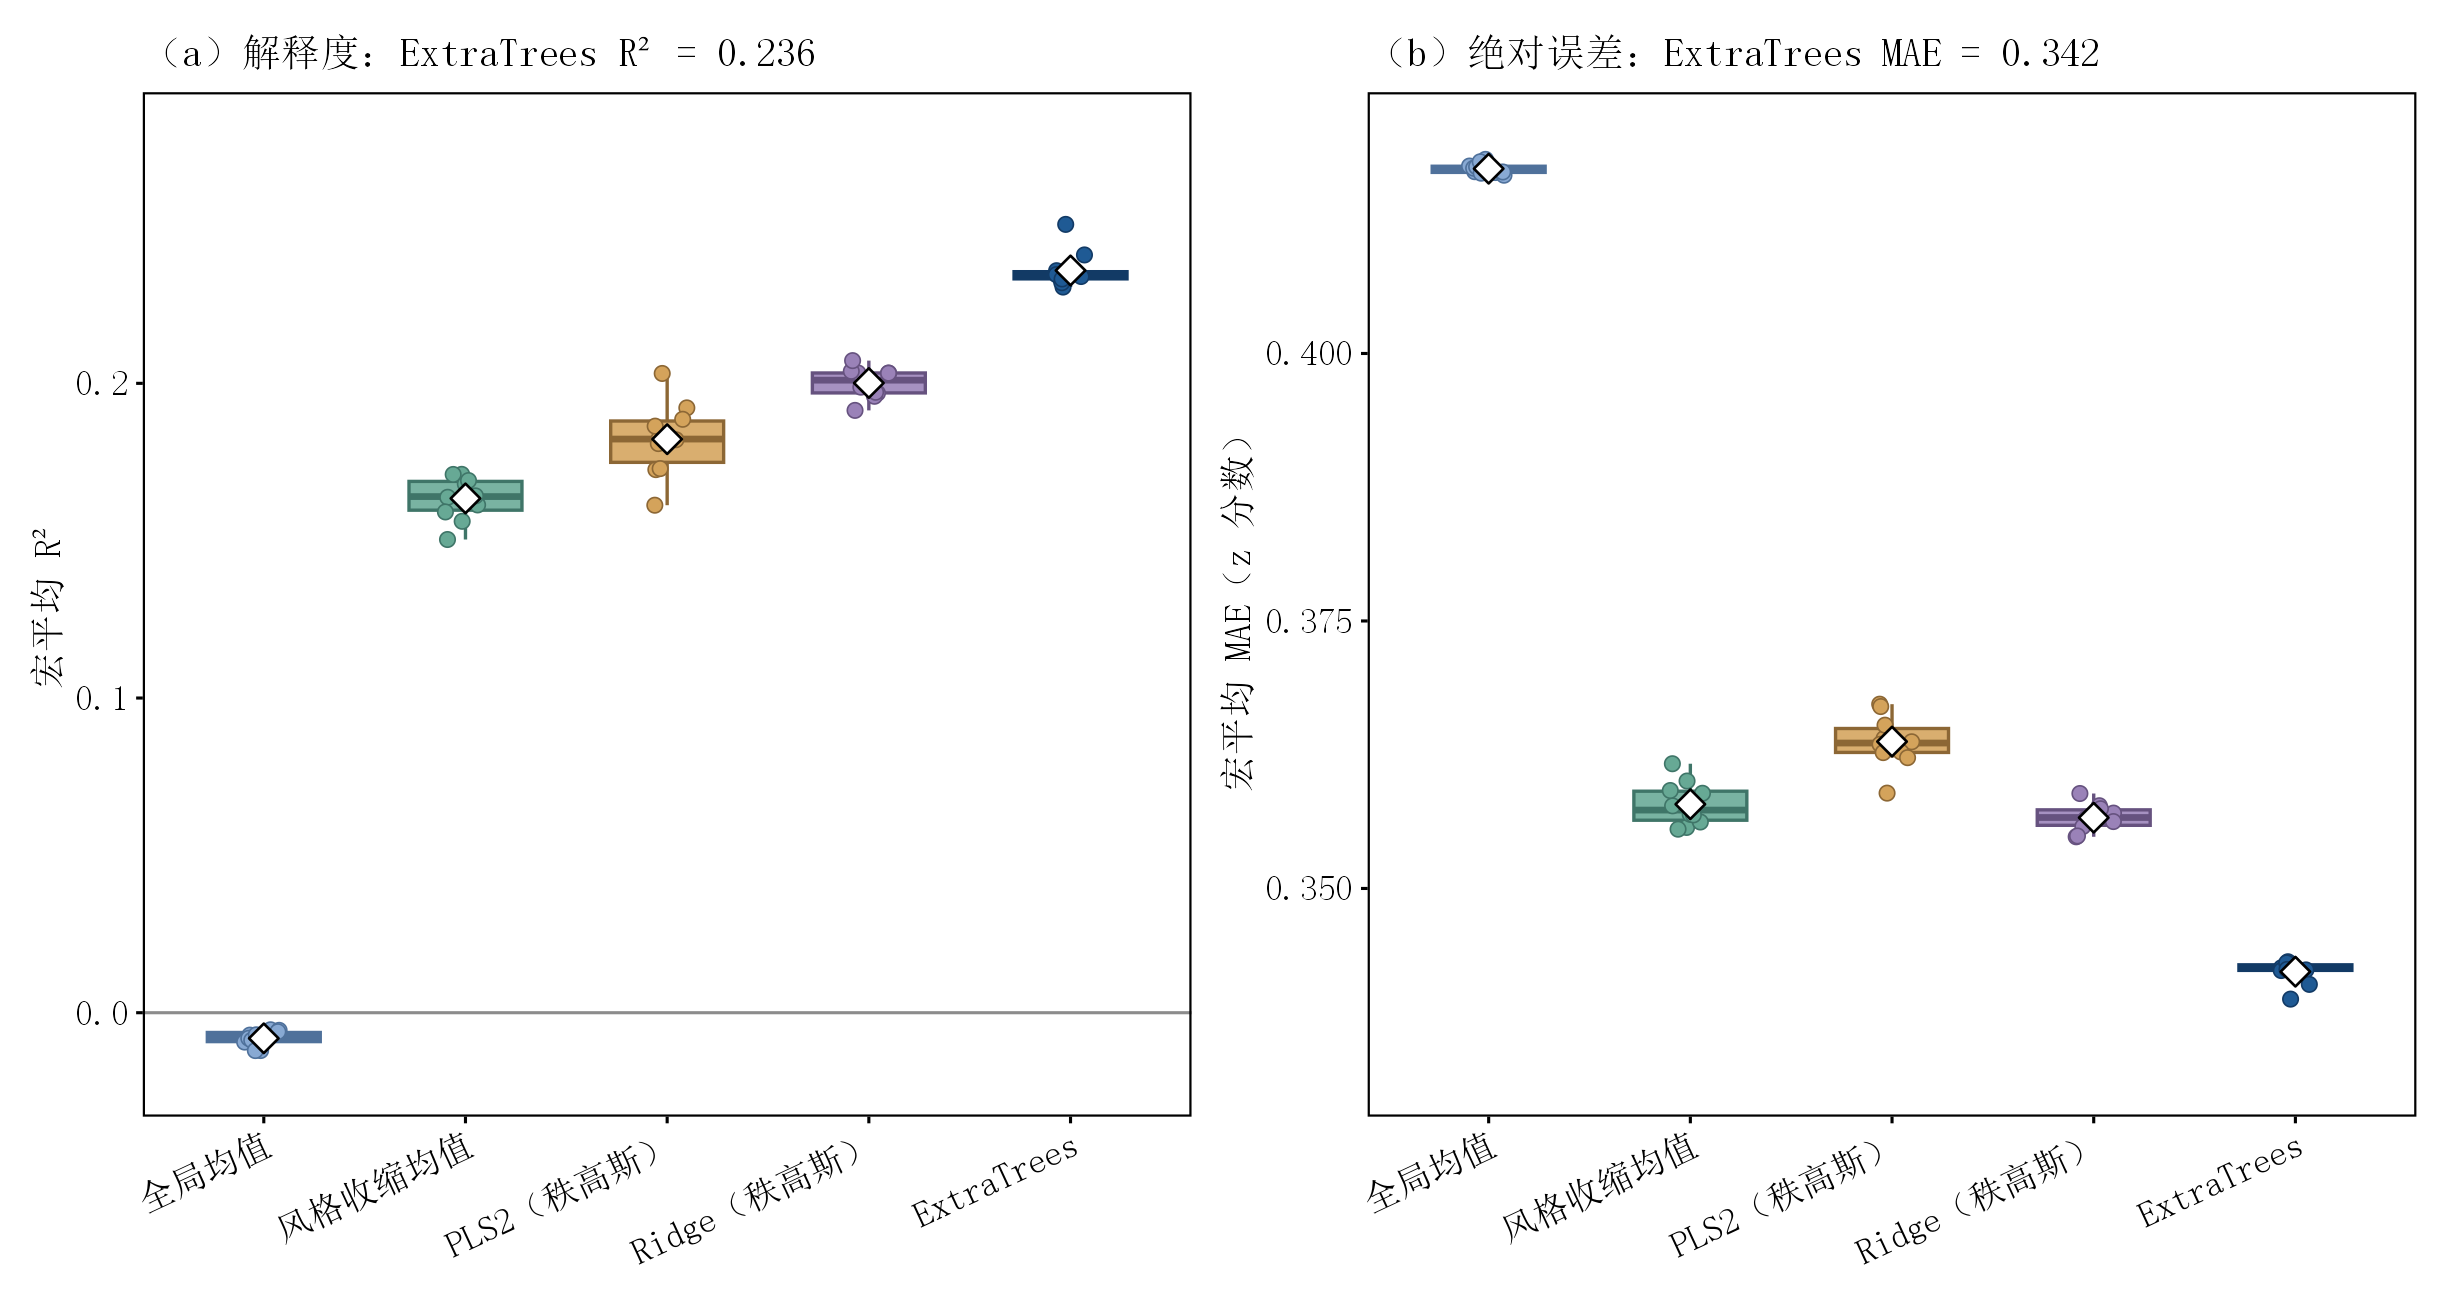
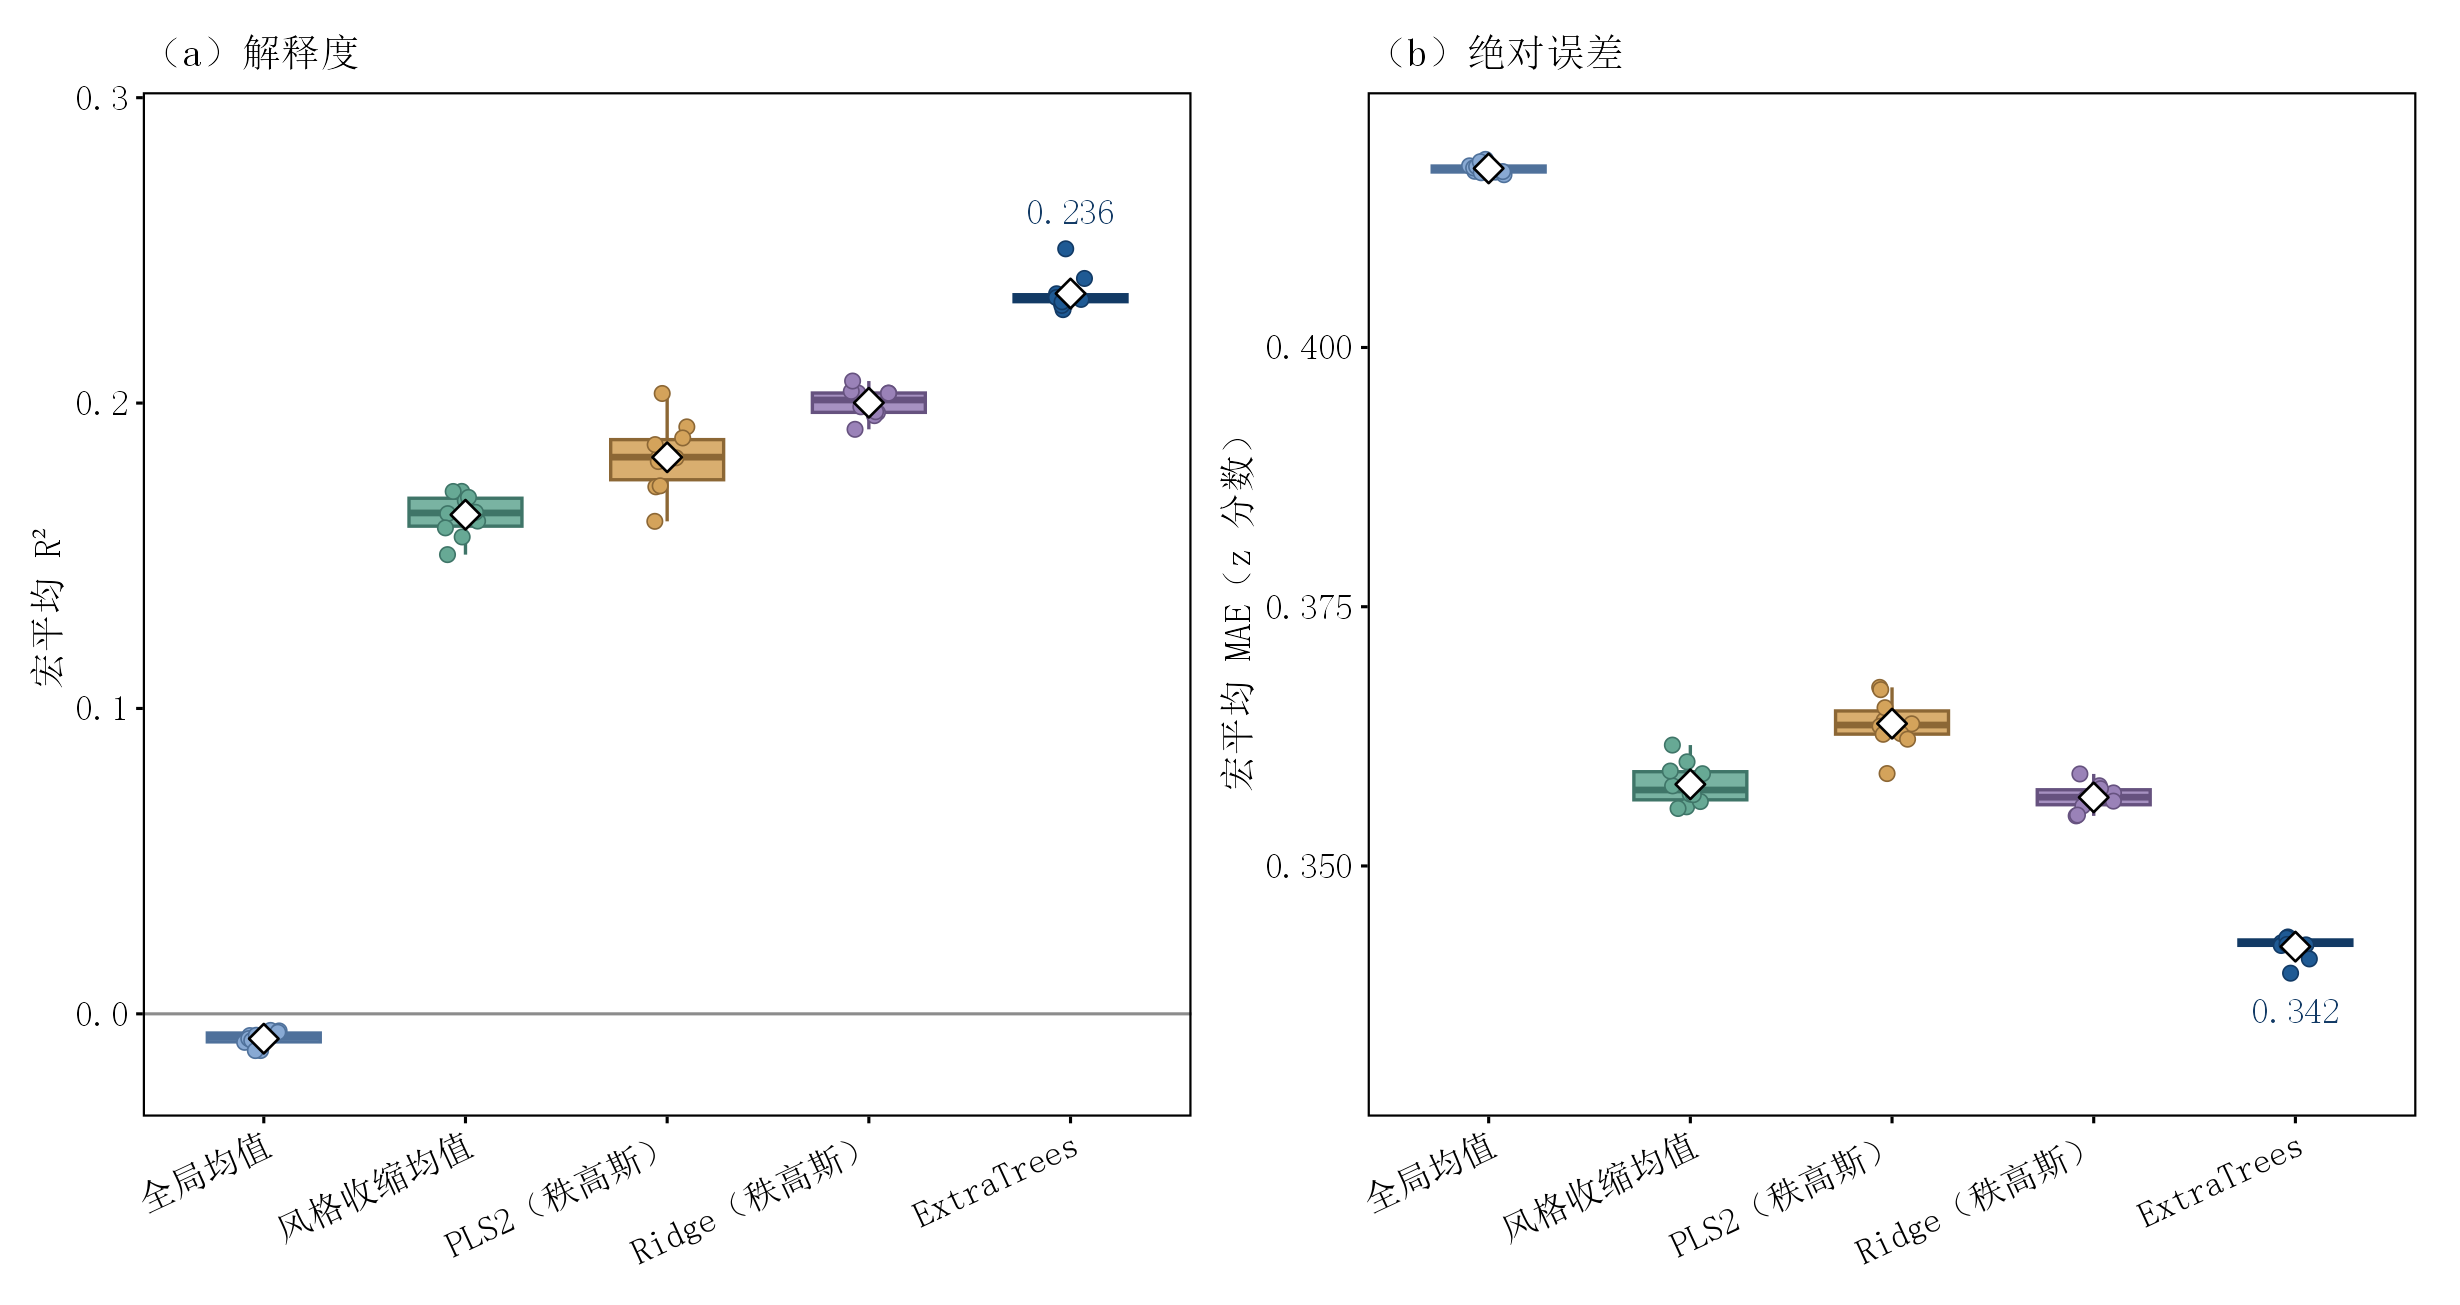
collab(MSG-20261024-1612-b4): 调整Q1图1标注与图4图例

diff --git a/02_代码/Q1_感官评分/tests/test_q1_v3_artifacts.py b/02_代码/Q1_感官评分/tests/test_q1_v3_artifacts.py
@@ -74,6 +74,25 @@ class Q1V3ArtifactTests(unittest.TestCase):
         self.assertIn('label = sprintf("总体 MAE=%.3f"', source)
         self.assertNotIn("angle = 90", source)
 
+    def test_v3_figure1_uses_plain_numeric_extratrees_labels(self) -> None:
+        source = PLOT_SCRIPT.read_text(encoding="utf-8")
+        self.assertIn('subtitle = "（a）解释度"', source)
+        self.assertIn('subtitle = "（b）绝对误差"', source)
+        self.assertIn('label = sprintf("%.3f", r2)', source)
+        self.assertIn('label = sprintf("%.3f", mae)', source)
+        self.assertNotIn("解释度：ExtraTrees", source)
+        self.assertNotIn("绝对误差：ExtraTrees", source)
+
+    def test_v3_figure4_mapping_uses_bottom_legend_not_direct_labels(self) -> None:
+        source = PLOT_SCRIPT.read_text(encoding="utf-8")
+        figure4b = source.split("p4b <-", maxsplit=1)[1].split(
+            "p4 <-", maxsplit=1
+        )[0]
+        self.assertNotIn("geom_text(", figure4b)
+        self.assertNotIn("mapping_labels", figure4b)
+        self.assertIn("guide_legend(nrow = 2", figure4b)
+        self.assertIn('legend.position = "bottom"', figure4b)
+
     def test_v3_directory_contains_expected_images(self) -> None:
         self.assertTrue(V3_DIR.is_dir(), f"missing V3 directory: {V3_DIR}")
         actual = {path.name for path in V3_DIR.glob("*.png")}

diff --git a/.research/figures/Q1_figure_plan.md b/.research/figures/Q1_figure_plan.md
@@ -12,10 +12,10 @@
 
 | 图 | 核心结论 | 类型 | 面板与数据 | 论文位置 | 主要风险 |
 |---|---|---|---|---|---|
-| 图1 | ExtraTrees 在相同重复分层 OOF 协议下同时提高 R² 并降低 MAE | 主模型对比 | (a) 宏平均 R²；(b) 宏平均 MAE；`model_comparison.csv`；五模型低饱和配色，ExtraTrees 深蓝突出 | 模型求解 | 颜色仅区分模型，不表示性能顺序；保留 10 次重复点与共同均值菱形 |
+| 图1 | ExtraTrees 在相同重复分层 OOF 协议下同时提高 R² 并降低 MAE | 主模型对比 | (a) 解释度；(b) 绝对误差；`model_comparison.csv`；五模型低饱和配色，ExtraTrees 深蓝突出并在点簇旁标纯数字 | 模型求解 | 颜色仅区分模型，不表示性能顺序；保留 10 次重复点与共同均值菱形，面板上方不重复写模型名和数值 |
 | 图2 | 50 个感官目标的可预测性高度异质，R² 与 Spearman 提供互补证据 | 三栏性能图谱 | (a) 15 个香气目标；(b) 15 个风味目标；(c) 20 个味觉、口感与总体目标；`target_metrics_extra_trees.csv` | 结果分析 | 两指标含义不同但均为越高越好；必须共用 0—0.9 横轴并保留全部 50 项 |
 | 图3 | 高、中、低可预测目标呈现不同的拟合程度和回归到均值 | 预测边界 | acidity / X4vg / stale_hops 的 mean-OOF 观测—预测散点；`representative_oof.csv.gz` | 模型检验 | 代表目标必须按预登记高/中/低层级选取，不按图形好看程度挑选 |
-| 图4 | 风格误差受样本量与风格差异影响，0—6 输出是训练折经验分布的单调重标定 | 稳健性+输出口径 | (a) 风格 MAE 与样本量；(b) 4 个代表目标的映射；`style_metrics_extra_trees.csv` + `scale_mapping_example.csv` | 结果讨论 | 不得把 0—6 相对等级表述为原始评委打分 |
+| 图4 | 风格误差受样本量与风格差异影响，0—6 输出是训练折经验分布的单调重标定 | 稳健性+输出口径 | (a) 风格 MAE 与样本量；(b) 4 个代表目标的映射及底部两行图例；`style_metrics_extra_trees.csv` + `scale_mapping_example.csv` | 结果讨论 | 不得把 0—6 相对等级表述为原始评委打分；图例不得遮挡曲线 |
 
 ## 附图
 

diff --git a/docs/collab/to_zcode.md b/docs/collab/to_zcode.md
@@ -425,3 +425,25 @@ Q2 路线 B 的图稿 checkpoint 已完成，暂不生成 DOCX。正文控制为
 - 连续两次重绘 SHA256 一致；70% 缩放和灰度预览可辨；v1/v2 冻结哈希有效。
 
 **回复**: （由 ZCode 填写）
+
+## MSG-20261024-1612-b4 | handoff | OPEN
+- 发起: Codex
+- 接收: ZCode
+- 时间: 2026-10-24 16:12
+- 关联: MSG-20261024-1605-7f、C-006、final_v3_draft
+
+**标题**: Q1 V3 第三轮图稿修正待验收
+
+**内容**:
+根据用户最新审阅继续修正 V3 呈现层，模型、指标和源数据均未变化：
+
+1. `图1_模型对比.png`：面板上方保留“（a）解释度”“（b）绝对误差”，删除后续 ExtraTrees 模型名与指标数值说明；ExtraTrees 点簇旁仅标纯数字 `0.236` 与 `0.342`。
+2. `图4_风格误差与量表映射.png`：右面板取消曲线内直接标字，恢复面板下方两行图例；图例同时编码颜色与线型，四条曲线在彩色和灰度下均可区分。
+
+其他 V3 图片不变。图稿路径仍为 `04_图表/Q1_感官评分/final_v3_draft/`；用户确认前不冻结 final_v3，不生成 Word v2。
+
+**验收**:
+- 目检图1纯数字是否与点簇错开、图4(b)底部图例是否清楚且不挤压曲线。
+- V3 专项测试 11/11、Q1 全量测试 27/27；重绘 SHA256 一致。
+
+**回复**: （由 ZCode 填写）

diff --git a/docs/collab/board.md b/docs/collab/board.md
@@ -117,3 +117,5 @@
 - [2026-10-24 16:05] Codex: 根据用户首轮审阅重构 Q1 V3：图1改为五模型低饱和配色，图2改为三栏 R²—Spearman 性能图谱；连续重绘哈希、70% 缩放和灰度检查通过，等待最终验图。
 - [2026-10-24 16:05] Codex: 发出 MSG-20261024-1605-7f（handoff）→ ZCode：Q1 V3 重构图稿待最终验收
 - [2026-10-24 16:08] Codex: 按用户第二轮审阅删除图2面板标题中的“xx项”，并将图4总体 MAE 文字改为横向放置；数值与模型结果不变。
+- [2026-10-24 16:12] Codex: 按用户第三轮审阅恢复图4(b)底部两行图例；图1顶部保留“解释度/绝对误差”，ExtraTrees 点簇旁仅标纯数字。
+- [2026-10-24 16:12] Codex: 发出 MSG-20261024-1612-b4（handoff）→ ZCode：Q1 V3 第三轮图稿修正待验收

diff --git a/findings.md b/findings.md
@@ -90,4 +90,5 @@
 - 图3固定酸度、4VG、陈旧酒花味三项预登记代表，不因图形效果换目标；图4总体参考线使用 50 个 mean-OOF 目标 MAE 的均值 0.338879，而不是 10 次重复均值 0.3422。
 - V3 五图约 300 dpi；连续两次重绘 SHA256 一致，70% 缩放与灰度检查通过；`final_v1/`、`final_v2_draft/` 哈希未变。
 - 用户第二轮审阅要求去掉图2标题中的“xx项”，并将图4竖虚线旁的总体 MAE 文字改为横排；两项均已落实，未改变图中任何数值。
+- 用户第三轮审阅要求图4(b)恢复底部图例，并删除图1顶部冗长的 ExtraTrees 指标说明。当前图4(b)使用两行颜色—线型图例；图1保留“解释度/绝对误差”面板名，点簇旁仅标 `0.236`、`0.342`。
 

diff --git a/progress.md b/progress.md
@@ -104,6 +104,7 @@
   - 保留图3的预登记目标并加入 OLS 趋势/95% 置信带；图4加入 mean-OOF 总体 MAE 参照、线型冗余编码和曲线直标。
   - 更新图表合同、源数据清单、V3 图清单和 SHA256 清单；用户确认前不生成 Word v2。
   - 按第二轮审阅删除图2标题中的目标计数，并把图4总体 MAE 参照文字改为水平阅读。
+  - 按第三轮审阅将图4(b)曲线内直标改回底部两行图例；图1顶部保留“解释度/绝对误差”，在 ExtraTrees 点簇旁显示纯数字。
 - Verification:
   - V3 专项测试 8/8 通过；五张 PNG 尺寸与约 300 dpi 符合合同。
   - 连续两次 R 重绘后六个交付文件 SHA256 均一致。

diff --git a/04_图表/Q1_感官评分/README.md b/04_图表/Q1_感官评分/README.md
@@ -24,5 +24,7 @@ V3 首轮审阅后又修正：图1不再使用四灰一蓝；图2不再使用 50
 
 V3 第二轮审阅修正：图2面板标题删除“xx项”；图4总体 MAE 文字改为横向放置，竖虚线只承担参照作用。
 
+V3 第三轮审阅修正：图1顶部保留“(a) 解释度 / (b) 绝对误差”，ExtraTrees 的 R²/MAE 在对应点簇旁仅标纯数字；图4(b) 取消曲线内直标，恢复右面板下方的两行颜色—线型图例。
+
 旧版 7 张图与原图清单完整保留于 `archive_v1/`，首次重排版保留于 `archive_v2/`。图表证据合同与源数据映射见 `.research/figures/Q1_figure_plan.md` 和 `Q1_source_data_manifest.json`。
 

diff --git a/task_plan.md b/task_plan.md
@@ -35,6 +35,7 @@ Phase 2B：Q1 图表 V3 已按用户首轮审阅重构，等待最终验图。
 - [x] 写入并自检 V3 设计规格
 - [x] 用户确认书面规格并授权直接重画
 - [x] 根据首轮反馈把图1改为低饱和多色，把图2重构为三栏 R²—Spearman 性能图谱
+- [x] 根据后续反馈移除图2标题计数、横排图4总体 MAE、恢复图4(b)底部图例并简化图1数值标注
 - [x] 生成 `final_v3_draft/`，完成缩放、灰度和重绘一致性检查
 - [x] 向 `to_zcode.md` 发送 V3 图清单，等待最终验图
 - **Status:** waiting for final figure review
